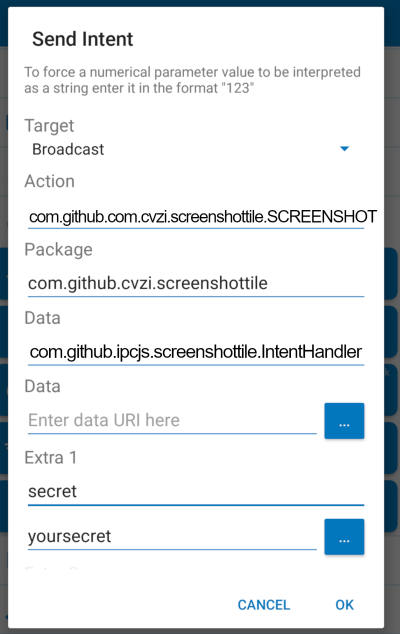
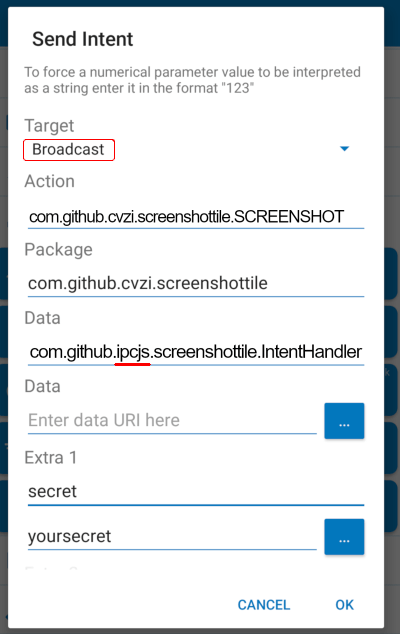
Readme

Changed region(s): [[0.27, 0.3297, 0.96, 0.3596], [0.3, 0.5694, 0.36, 0.5994]]

diff --git a/README.md b/README.md
@@ -48,9 +48,9 @@ Now you can **add a macro** to MacroDroid:
 *   Open MacroDroid and tap on *Macros* and then *Add Macro* or the ➕ Symbol
 *   Tab ➕ on *Triggers* and add your desired trigger
 *   Tab ➕ on *Actions* and go to *Connectivity* -> *Send Intent*
-*   Under *Target* select *Broadcast* and fill out the fields:
-    *   Action: `com.github.screenshottile.SCREENSHOT`
-    *   Package: `com.github.screenshottile`
+*   Under *Target* select **Broadcast** and fill out the fields:
+    *   Action: `com.github.cvzi.screenshottile.SCREENSHOT`
+    *   Package: `com.github.cvzi.screenshottile`
     *   Data (class name): `com.github.ipcjs.screenshottile.IntentHandler`
     *   Extra 1 parameter: `secret`
     *   Extra 1 value: `yourPasswordFromEarlier`
